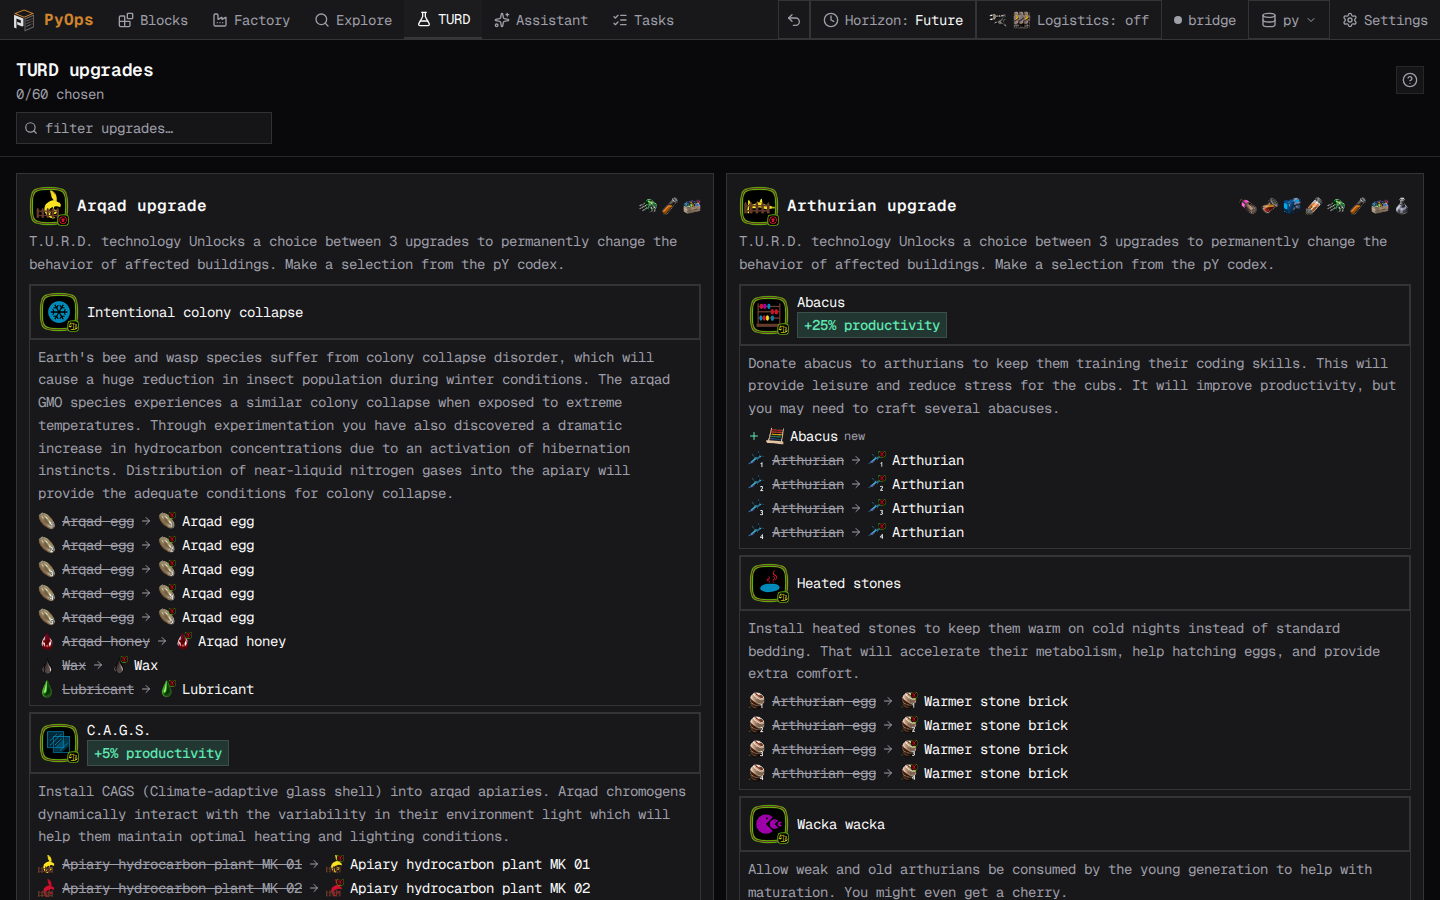
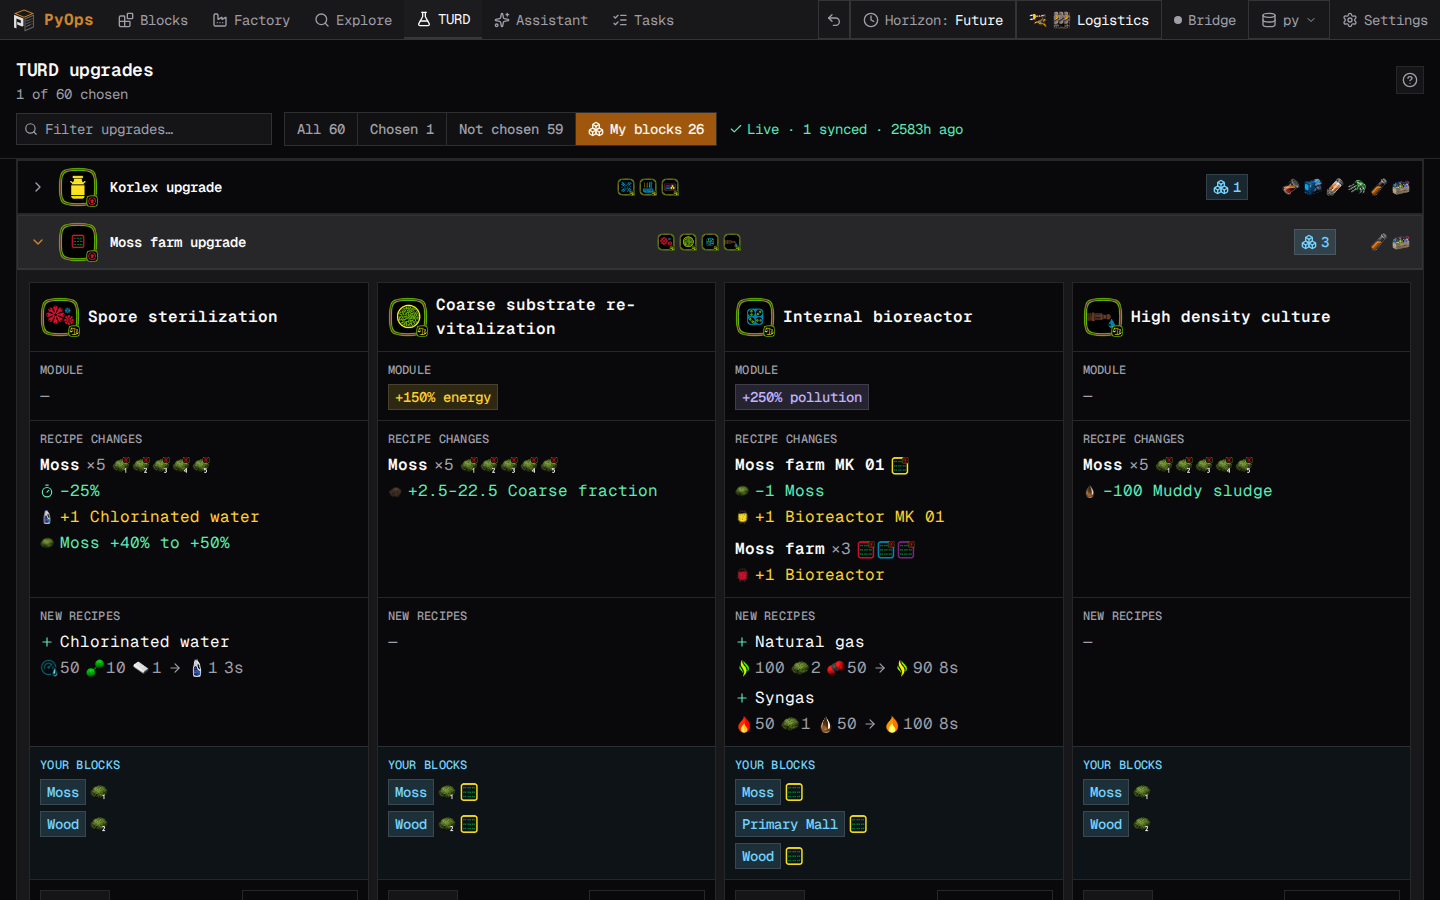
docs(app): describe the TURD list, filters, and branch sections

diff --git a/docs/guide/turd.md b/docs/guide/turd.md
@@ -15,13 +15,29 @@ The **TURD** page appears when the active project's synced data contains TURD up
 
 ## Review and select a branch
 
+The page lists one row per TURD master. Chosen masters come first, then masters whose
+branches touch your blocks, then the rest. Each row shows the chosen branch (or the
+branches' icons), how many of your blocks it touches, and the science it needs.
+
 1. Open **TURD**.
-2. Search by the master upgrade or branch name when necessary.
-3. Expand a master and compare the offered recipe changes.
+2. Narrow the list with **Chosen**, **Not chosen**, or **My blocks**, or search by the
+   master or branch name.
+3. Select a row to expand it. Its branches appear side by side with the same sections in
+   line: **Module** (the always-on effect), **Recipe changes**, **New recipes**, and
+   **Your blocks**.
 4. Select **Choose** on the branch that matches the playthrough or the choice you want to
    evaluate.
 5. Review the confirmation, which lists every block that re-solves, and select
    **Choose upgrade**.
+
+**Recipe changes** collapses swaps that differ only by tier into one line, such as
+**Moss ×5**, and lists only what changes: craft time, added or removed inputs, and changed
+amounts. When the tiers change by different amounts, the line shows the percentage range.
+Hover a recipe icon for its full before-and-after comparison.
+
+**Your blocks** lists each block that runs one of the branch's recipes, or a building its
+module goes into, with the recipe or building icons that match. **Game text** shows the
+in-game description.
 
 The chosen branch shows **Chosen** and a **Clear** button, which removes the choice after
 the same confirmation. Choosing or clearing a branch is one undoable action: the undo button
@@ -29,8 +45,8 @@ in the main navigation restores the previous choice and re-solves the blocks aga
 
 <AppScreenshot
   src="/images/turd-upgrades.png"
-  alt="The dark-mode TURD upgrades page showing Arqad and Arthurian branch choices and their recipe changes"
-  caption="Each master groups mutually exclusive branches. Changed recipe lines make the affected inputs, outputs, and productivity bonuses explicit."
+  alt="The dark-mode TURD upgrades page with the Moss farm upgrade expanded into four branches side by side"
+  caption="An expanded master lines up its branches: module effect, recipe changes, new recipes, and the blocks each one touches."
 />
 
 PyOps re-solves blocks affected by the changed recipes. Review **Factory → Overview** and
